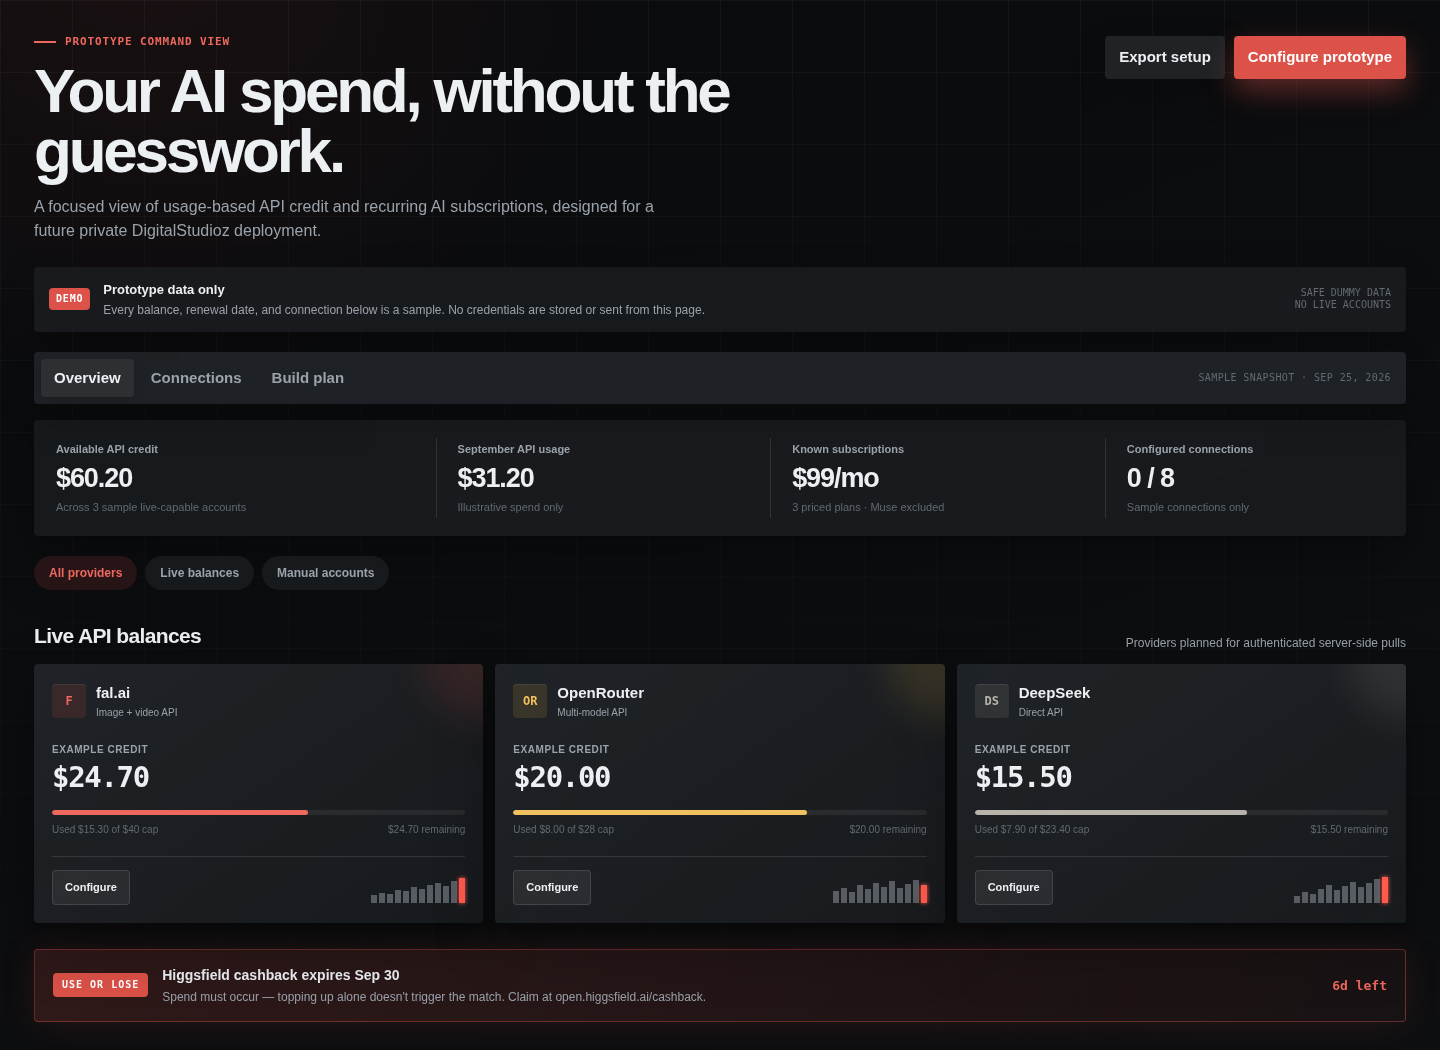
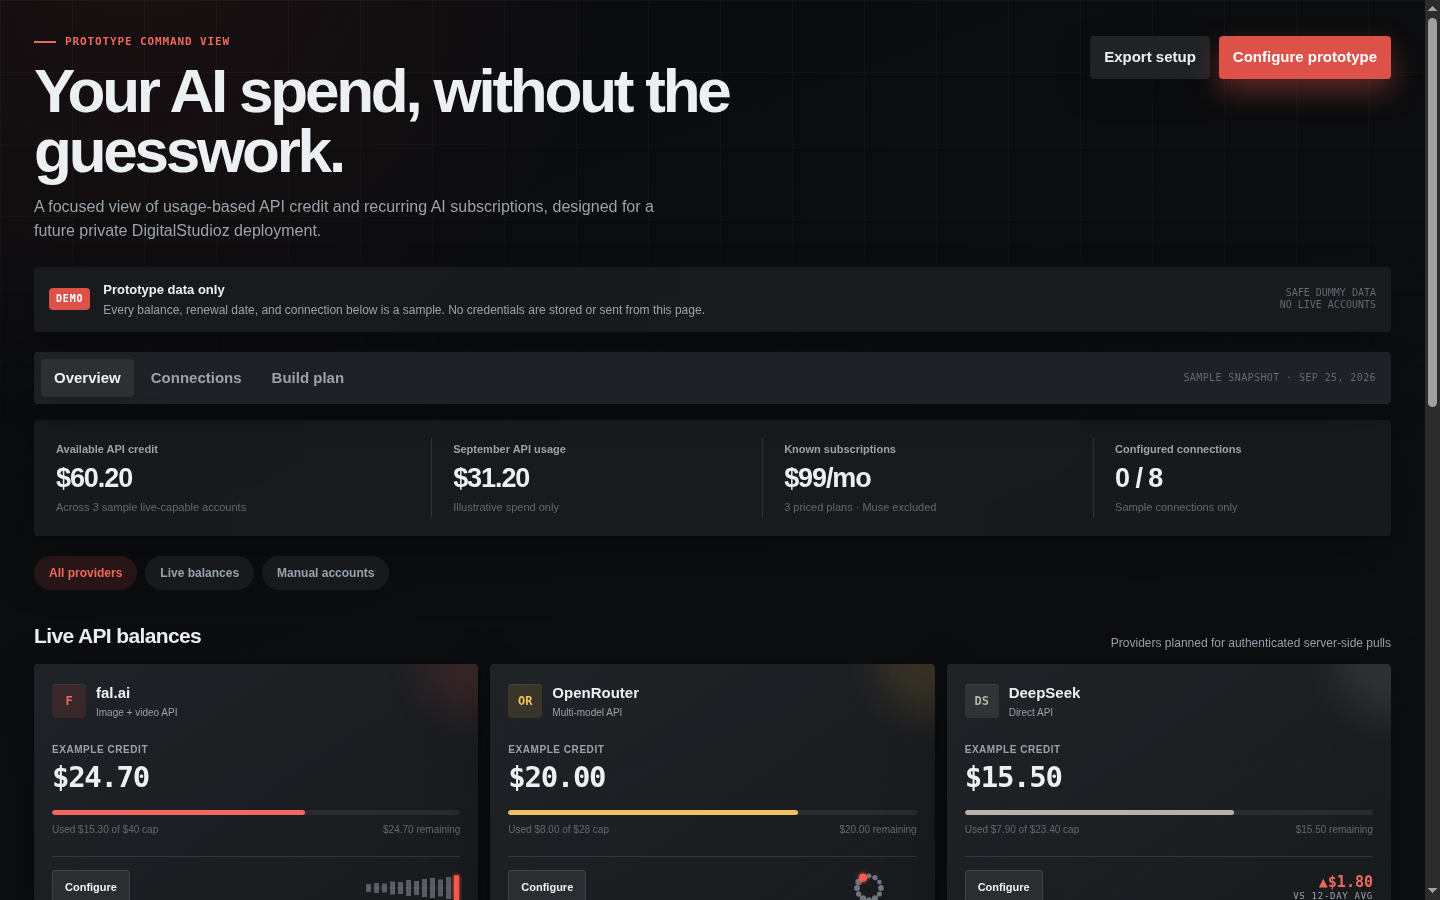
xrev-best-of-both: weird-options mock — waveform / spend clock / delta readout on live cards + fresh screenshot

diff --git a/index.html b/index.html
@@ -137,7 +137,11 @@
     @media(max-width:700px){body::before{background-size:48px 48px}.app{padding:22px 15px 52px}.topline{display:block}.top-actions{justify-content:flex-start;margin-top:20px}.notice{grid-template-columns:auto 1fr;margin-inline:0}.notice-side{display:none}.navrow{position:static;align-items:flex-start;flex-direction:column;padding:6px}.stamp{order:-1;padding:5px 7px 1px}.tabs{width:100%}.tab{flex:1;padding-inline:6px}.live-grid,.manual-grid,.connections,.insight-grid{grid-template-columns:1fr}.summary{grid-template-columns:1fr 1fr}.metric{padding:16px}.metric-value{font-size:22px}.section-head{align-items:flex-start;flex-direction:column;gap:3px}h1{font-size:39px}.card{padding:17px}.usage-panel,.access-panel{padding:18px}}
     @media(max-width:390px){.summary{grid-template-columns:1fr}.metric+.metric::before{display:none}.metric::after{content:"";position:absolute;left:16px!important;right:16px!important;bottom:0;height:1px;background:var(--line)}.metric:last-child::after{display:none}.top-actions .btn{flex:1}.provider-name{white-space:normal}.card-top{align-items:flex-start}}
     @media(prefers-reduced-motion:reduce){html{scroll-behavior:auto}.toast,.btn,.card,.pill{transition:none}}
-  </style>
+  
+    .delta{width:96px;text-align:right;line-height:1.25}
+    .delta .dval{font-family:"IBM Plex Mono",monospace;font-size:15px;font-weight:600;color:var(--red-strong)}
+    .delta .dsub{font-family:"IBM Plex Mono",monospace;font-size:9px;color:var(--muted);letter-spacing:.08em}
+</style>
 </head>
 <body>
   <main class="app">
@@ -186,17 +190,17 @@
         <article class="card" style="--service:var(--red-strong);--service-soft:var(--red-soft);--level:62%">
           <div class="card-top"><div class="provider"><div class="monogram">F</div><div><div class="provider-name">fal.ai</div><div class="provider-kind">Image + video API</div></div></div></div>
           <div class="balance-label">Example credit</div><div class="balance">$24.70</div><div class="bar"><span></span></div><div class="bar-meta"><span>Used $15.30 of $40 cap</span><span>$24.70 remaining</span></div>
-          <div class="card-foot"><button class="mini config-link" data-service="fal.ai">Configure</button><svg class="sparkbars" viewBox="0 0 96 30" role="img" aria-label="Sample fal.ai daily usage"><defs><filter id="barGlow" x="-60%" y="-60%" width="220%" height="220%"><feGaussianBlur stdDeviation="2.2" result="b"/><feMerge><feMergeNode in="b"/><feMergeNode in="SourceGraphic"/></feMerge></filter></defs><rect x="2" y="22" width="6" height="8" fill="#a7adb8" opacity=".45"/><rect x="10" y="20" width="6" height="10" fill="#a7adb8" opacity=".45"/><rect x="18" y="21" width="6" height="9" fill="#a7adb8" opacity=".45"/><rect x="26" y="17" width="6" height="13" fill="#a7adb8" opacity=".45"/><rect x="34" y="18" width="6" height="12" fill="#a7adb8" opacity=".45"/><rect x="42" y="14" width="6" height="16" fill="#a7adb8" opacity=".45"/><rect x="50" y="16" width="6" height="14" fill="#a7adb8" opacity=".45"/><rect x="58" y="12" width="6" height="18" fill="#a7adb8" opacity=".45"/><rect x="66" y="10" width="6" height="20" fill="#a7adb8" opacity=".45"/><rect x="74" y="13" width="6" height="17" fill="#a7adb8" opacity=".45"/><rect x="82" y="8" width="6" height="22" fill="#a7adb8" opacity=".45"/><rect x="90" y="5" width="6" height="25" fill="#ff5b4d" filter="url(#barGlow)"/><rect x="90" y="5" width="6" height="25" fill="#ff5b4d"/></svg></div>
+          <div class="card-foot"><button class="mini config-link" data-service="fal.ai">Configure</button><svg class="sparkbars" viewBox="0 0 96 30" role="img" aria-label="Sample fal.ai spend waveform"><defs><filter id="barGlow" x="-60%" y="-60%" width="220%" height="220%"><feGaussianBlur stdDeviation="2.2" result="b"/><feMerge><feMergeNode in="b"/><feMergeNode in="SourceGraphic"/></feMerge></filter></defs><line x1="2" y1="15" x2="94" y2="15" stroke="#ffffff" stroke-opacity=".1"/><rect x="2" y="11.0" width="5" height="8" fill="#a7adb8" opacity=".45"/><rect x="10" y="10.0" width="5" height="10" fill="#a7adb8" opacity=".45"/><rect x="18" y="10.5" width="5" height="9" fill="#a7adb8" opacity=".45"/><rect x="26" y="8.5" width="5" height="13" fill="#a7adb8" opacity=".45"/><rect x="34" y="9.0" width="5" height="12" fill="#a7adb8" opacity=".45"/><rect x="42" y="7.0" width="5" height="16" fill="#a7adb8" opacity=".45"/><rect x="50" y="8.0" width="5" height="14" fill="#a7adb8" opacity=".45"/><rect x="58" y="6.0" width="5" height="18" fill="#a7adb8" opacity=".45"/><rect x="66" y="5.0" width="5" height="20" fill="#a7adb8" opacity=".45"/><rect x="74" y="6.5" width="5" height="17" fill="#a7adb8" opacity=".45"/><rect x="82" y="4.0" width="5" height="22" fill="#a7adb8" opacity=".45"/><rect x="90" y="2.5" width="5" height="25" fill="#ff5b4d" filter="url(#barGlow)"/><rect x="90" y="2.5" width="5" height="25" fill="#ff5b4d"/></svg></div>
         </article>
         <article class="card" style="--service:var(--gold-strong);--service-soft:var(--gold-soft);--level:71%">
           <div class="card-top"><div class="provider"><div class="monogram">OR</div><div><div class="provider-name">OpenRouter</div><div class="provider-kind">Multi-model API</div></div></div></div>
           <div class="balance-label">Example credit</div><div class="balance">$20.00</div><div class="bar"><span></span></div><div class="bar-meta"><span>Used $8.00 of $28 cap</span><span>$20.00 remaining</span></div>
-          <div class="card-foot"><button class="mini config-link" data-service="OpenRouter">Configure</button><svg class="sparkbars" viewBox="0 0 96 30" role="img" aria-label="Sample OpenRouter daily usage"><rect x="2" y="18" width="6" height="12" fill="#a7adb8" opacity=".45"/><rect x="10" y="15" width="6" height="15" fill="#a7adb8" opacity=".45"/><rect x="18" y="19" width="6" height="11" fill="#a7adb8" opacity=".45"/><rect x="26" y="12" width="6" height="18" fill="#a7adb8" opacity=".45"/><rect x="34" y="16" width="6" height="14" fill="#a7adb8" opacity=".45"/><rect x="42" y="10" width="6" height="20" fill="#a7adb8" opacity=".45"/><rect x="50" y="14" width="6" height="16" fill="#a7adb8" opacity=".45"/><rect x="58" y="8" width="6" height="22" fill="#a7adb8" opacity=".45"/><rect x="66" y="15" width="6" height="15" fill="#a7adb8" opacity=".45"/><rect x="74" y="11" width="6" height="19" fill="#a7adb8" opacity=".45"/><rect x="82" y="7" width="6" height="23" fill="#a7adb8" opacity=".45"/><rect x="90" y="12" width="6" height="18" fill="#ff5b4d" filter="url(#barGlow)"/><rect x="90" y="12" width="6" height="18" fill="#ff5b4d"/></svg></div>
+          <div class="card-foot"><button class="mini config-link" data-service="OpenRouter">Configure</button><svg class="sparkbars" viewBox="0 0 96 30" role="img" aria-label="Sample OpenRouter spend clock"><circle cx="48" cy="15" r="12" fill="none" stroke="#ffffff" stroke-opacity=".12"/><circle cx="48.0" cy="3.0" r="2.4" fill="#a7adb8" opacity=".6"/><circle cx="54.0" cy="4.6" r="2.65" fill="#a7adb8" opacity=".6"/><circle cx="58.4" cy="9.0" r="2.32" fill="#a7adb8" opacity=".6"/><circle cx="60.0" cy="15.0" r="2.9" fill="#a7adb8" opacity=".6"/><circle cx="58.4" cy="21.0" r="2.57" fill="#a7adb8" opacity=".6"/><circle cx="54.0" cy="25.4" r="3.07" fill="#a7adb8" opacity=".6"/><circle cx="48.0" cy="27.0" r="2.73" fill="#a7adb8" opacity=".6"/><circle cx="42.0" cy="25.4" r="3.23" fill="#a7adb8" opacity=".6"/><circle cx="37.6" cy="21.0" r="2.65" fill="#a7adb8" opacity=".6"/><circle cx="36.0" cy="15.0" r="2.98" fill="#a7adb8" opacity=".6"/><circle cx="37.6" cy="9.0" r="3.32" fill="#a7adb8" opacity=".6"/><circle cx="42.0" cy="4.6" r="3.9" fill="#ff5b4d" filter="url(#barGlow)"/><circle cx="42.0" cy="4.6" r="3.9" fill="#ff5b4d"/></svg></div>
         </article>
         <article class="card" style="--service:#b7b3aa;--service-soft:rgba(183,179,170,.12);--level:66%">
           <div class="card-top"><div class="provider"><div class="monogram">DS</div><div><div class="provider-name">DeepSeek</div><div class="provider-kind">Direct API</div></div></div></div>
           <div class="balance-label">Example credit</div><div class="balance">$15.50</div><div class="bar"><span></span></div><div class="bar-meta"><span>Used $7.90 of $23.40 cap</span><span>$15.50 remaining</span></div>
-          <div class="card-foot"><button class="mini config-link" data-service="DeepSeek">Configure</button><svg class="sparkbars" viewBox="0 0 96 30" role="img" aria-label="Sample DeepSeek daily usage"><rect x="2" y="23" width="6" height="7" fill="#a7adb8" opacity=".45"/><rect x="10" y="19" width="6" height="11" fill="#a7adb8" opacity=".45"/><rect x="18" y="21" width="6" height="9" fill="#a7adb8" opacity=".45"/><rect x="26" y="16" width="6" height="14" fill="#a7adb8" opacity=".45"/><rect x="34" y="12" width="6" height="18" fill="#a7adb8" opacity=".45"/><rect x="42" y="17" width="6" height="13" fill="#a7adb8" opacity=".45"/><rect x="50" y="13" width="6" height="17" fill="#a7adb8" opacity=".45"/><rect x="58" y="9" width="6" height="21" fill="#a7adb8" opacity=".45"/><rect x="66" y="14" width="6" height="16" fill="#a7adb8" opacity=".45"/><rect x="74" y="10" width="6" height="20" fill="#a7adb8" opacity=".45"/><rect x="82" y="6" width="6" height="24" fill="#a7adb8" opacity=".45"/><rect x="90" y="4" width="6" height="26" fill="#ff5b4d" filter="url(#barGlow)"/><rect x="90" y="4" width="6" height="26" fill="#ff5b4d"/></svg></div>
+          <div class="card-foot"><button class="mini config-link" data-service="DeepSeek">Configure</button><div class="delta" role="img" aria-label="Sample: up $1.80 versus 12-day average"><div class="dval">&#9650;$1.80</div><div class="dsub">VS 12-DAY AVG</div></div></div>
         </article>
       </div>
 
